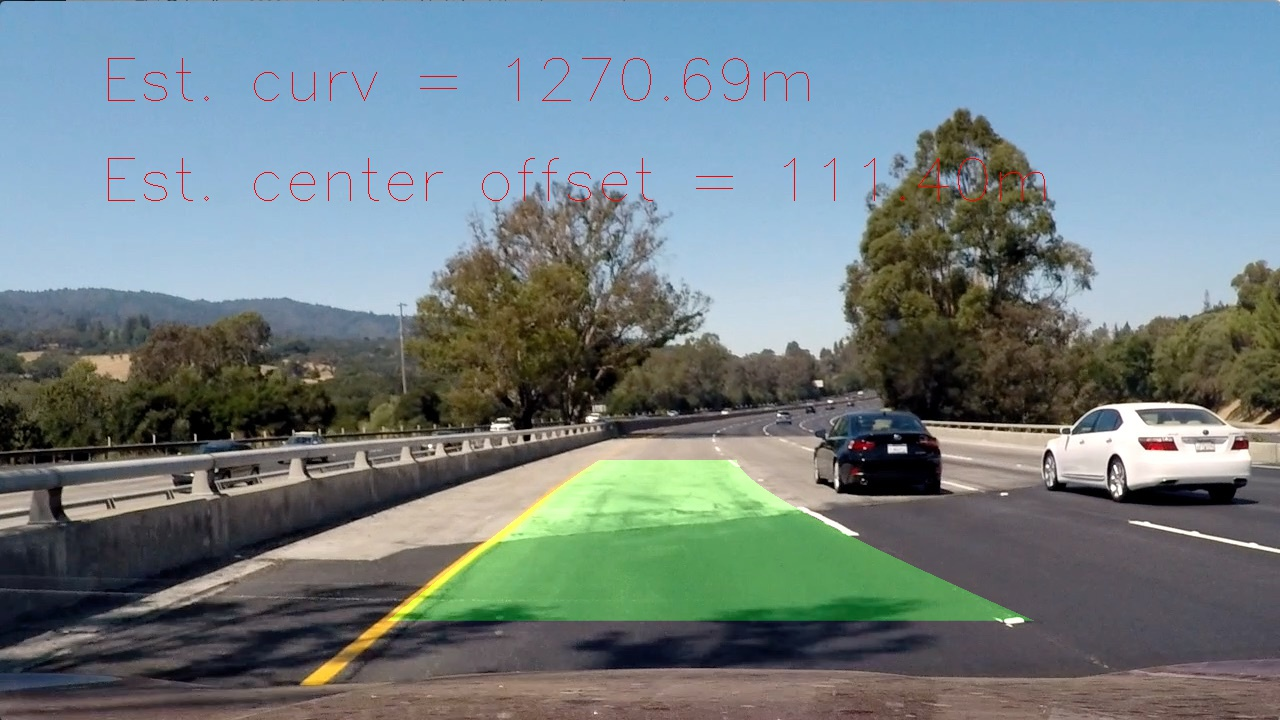
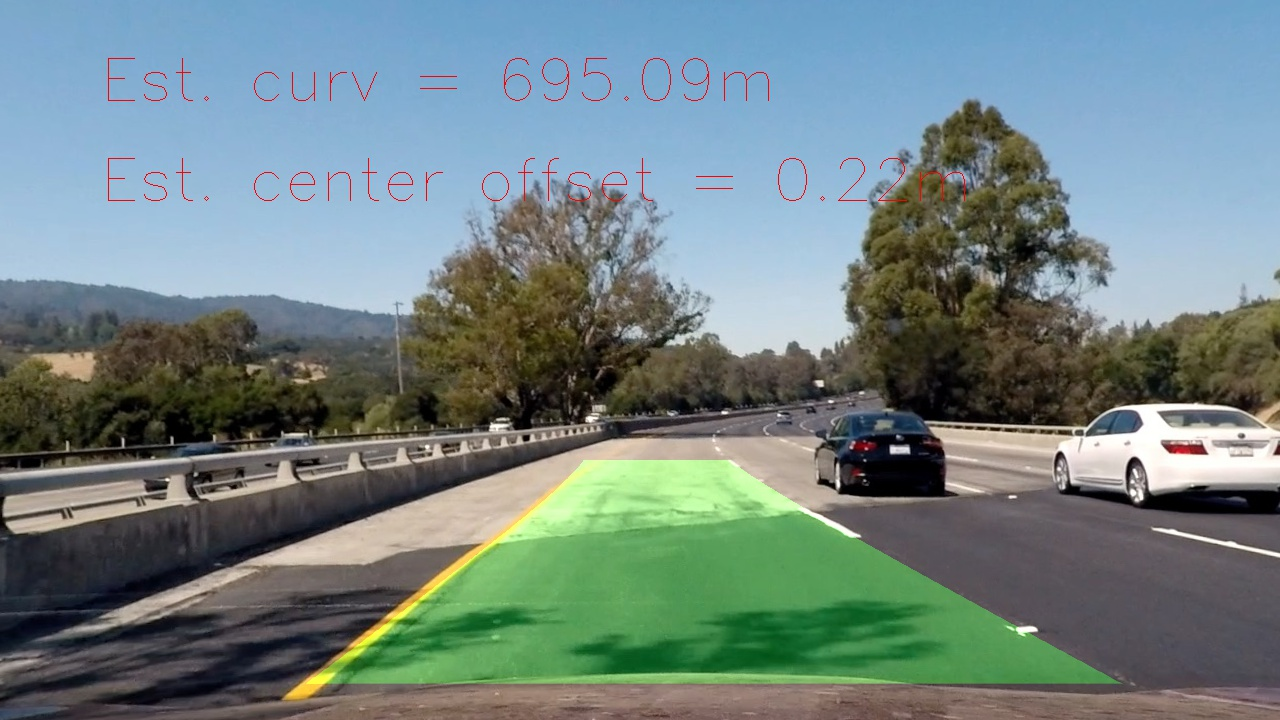
more update

diff --git a/pipe.py b/pipe.py
@@ -87,25 +87,41 @@ def lane_pipe(rgb_img, state_id=None, debug_lv=0):
         right_lane = state.get('right_lane') or Line()
 
     h, w, chan = rgb_img.shape
-    region = np.array([
-        # top left
-        (int(w / 2) - 100, int(h / 2) + 100),
-        # top right
-        (int(w / 2) + 100, int(h / 2) + 100),
-        # bottom right
-        (int(w * 0.9), int(h * 0.95)),
-        # bottom left
-        (int(w * 0.1), int(h * 0.95)),
-    ])
+
+    if debug_lv >= 1:
+        region = np.array([
+            # top left
+            (int(w / 2) - 70, int(h / 2) + 100),
+            # top right
+            (int(w / 2) + 70, int(h / 2) + 100),
+            # bottom right
+            (int(w * 0.85), int(h * 0.95)),
+            # bottom left
+            (int(w * 0.17), int(h * 0.95)),
+        ])
+    else:
+        region = np.array([
+            # top left
+            (int(w / 2) - 100, int(h / 2) + 100),
+            # top right
+            (int(w / 2) + 100, int(h / 2) + 100),
+            # bottom right
+            (int(w * 0.9), int(h * 0.95)),
+            # bottom left
+            (int(w * 0.1), int(h * 0.95)),
+        ])
 
     undistorted = img = helper2.undistort_img(rgb_img)
-    # img = helper.gaussian_blur(img, 5)
+    if debug_lv >= 1:
+        cv2.imwrite('original.png', cv2.cvtColor(rgb_img, cv2.COLOR_RGB2BGR))
+        cv2.imwrite('undistortion.png', cv2.cvtColor(img, cv2.COLOR_RGB2BGR))
+
     img = helper2.edge_detection(img, debug_lv=debug_lv)
 
     cv2.imwrite('edge_detection.png', img)
     img = helper.region_of_interest(img, [region])
 
-    cv2.imwrite('region.png', img)
+    cv2.imwrite('region.png', helper.region_of_interest(rgb_img, [region]))
 
     img, M, inv_M = helper2.bird_eye_view(img, region.astype('float32'), w, h)
 
@@ -115,7 +131,6 @@ def lane_pipe(rgb_img, state_id=None, debug_lv=0):
     img = helper2.draw_lanes(undistorted, img, inv_M, left_lane, right_lane, w,
                              h)
     # cv2.imwrite('unwarped.png', img)
-
     curavture_rad = left_lane.curvature(h) + right_lane.curvature(h)
     center_offset = np.abs(w / 2 -
                            (left_lane.base_x(h) + right_lane.base_x(h)) / 2)
@@ -137,6 +152,9 @@ def process_image(output_root='./output_images',
     test_imgs = os.listdir(img_root)
 
     for path in test_imgs:
+        if not path.endswith('jpg'):
+            continue
+
         img = mpimg.imread(os.path.join(img_root, path))
         img = lane_pipe(img, debug_lv=debug_lv)
 

diff --git a/helper2.py b/helper2.py
@@ -133,33 +133,15 @@ def undistort_img(img):
     mtx = cam_cal['mtx']
     dist = cam_cal['dist']
 
-    return cv2.undistort(img, mtx, dist, None, None)
+    return cv2.undistort(img, mtx, dist, None, mtx)
 
 
-def distort_img(img):
-    mtx = cam_cal['mtx']
-    dist = cam_cal['dist']
-
-    # http://answers.opencv.org/question/98929/trying-to-re-distort-image-points-using-projectpoints/
-    x, y = img[:, 0], img[:, 1]
-    print(x.shape)
-    print(y.shape)
-    x = (x - mtx[0, 2]) / mtx[0, 0]
-    y = (x - mtx[1, 2]) / mtx[1, 1]
-    new_img = np.dstack([x, y, 1])
-
-    print(new_img.shape)
-    new_img = cv2.projectPoints(new_img,
-                                np.zeros((3, 1, cv2.CV_64F)),
-                                np.zeros((3, 1, cv2.CV_64F)), mtx, dis)
-
-    return new_img
-
-
-def bird_eye_view(img, src_corners, w, h, offset=10):
-    dst_corners = np.array([(offset, offset), (w - offset, offset),
-                            (w - offset, h - offset),
-                            (offset, h - offset)]).astype('float32')
+def bird_eye_view(img, src_corners, w, h, offset=250):
+    dst_corners = np.array([(offset, 0), (w - offset, 0), (w - offset, h),
+                            (offset, h)]).astype('float32')
+    print(img.shape)
+    print(src_corners)
+    print(dst_corners)
     M = cv2.getPerspectiveTransform(src_corners, dst_corners)
     inv_M = cv2.getPerspectiveTransform(dst_corners, src_corners)
     dst = cv2.warpPerspective(img, M, (w, h))

diff --git a/writeup_template.md b/writeup_template.md
@@ -108,9 +108,9 @@ Here is an example demonstrating the region.
 
 I verified that my perspective transform was working as expected by drawing by visualizing the warped images and that unwarped trapzoid aligns with lane correctly.
 
-![Warped](asset/warped.png)
+![Bird Eye View](asset/unwarped_region.png)
 
-![Unwarped](asset/unwarped.png)
+![Final Result](asset/final.png)
 
 #### 4. Describe how (and identify where in your code) you identified lane-line pixels and fit their positions with a polynomial?
 
